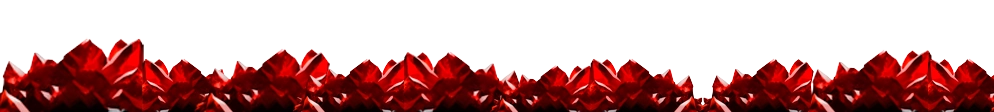
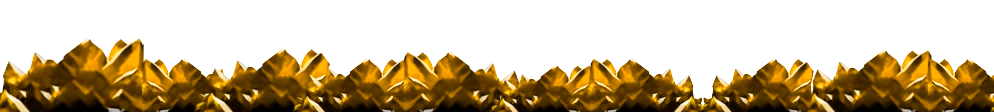
update blue side

diff --git a/js/main.js b/js/main.js
@@ -101,7 +101,13 @@ document.addEventListener("DOMContentLoaded", function () {
 
   // Criação dos elementos
   const divApoio = criarElemento("div", ["apoio-card"]);
+  divApoio.style.padding = "20px";
+  divApoio.style.width = "350px";
+  divApoio.style.background = "var(--col-1)";
   const divApoio2 = criarElemento("div", ["apoio-card"]);
+  divApoio2.style.padding = "20px";
+  divApoio2.style.width = "350px";
+  divApoio2.style.background = "var(--col-1)";
 
   const arroba = criarElemento(
     "a",
@@ -115,18 +121,16 @@ document.addEventListener("DOMContentLoaded", function () {
     "@Nickname",
     "https://twitter.com/"
   );
-
   const arrobaP = criarElemento(
     "p",
     ["col-2", "font1-Pnm4"],
-    "Frontend Developer : Idealizei o projeto com intuito de estudar e de 'brinde' participar da comunidade."
+    "Frontend Developer : Idealizei o projeto com intuito de estudar."
   );
   const arrobaP2 = criarElemento(
     "p",
     ["col-2", "font1-Pnm4"],
-    "Fandom ____ e principal apoiador do DreamTeam. Todas as artes foram feitas pelos seus designers."
+    "Principal apoiador, todas as artes foram feitas pela sua equipe."
   );
-
   const apoioConteudo = document.querySelector(".apoio-conteudo");
 
   // Adição dos elementos à DOM
@@ -144,17 +148,37 @@ function mudar() {
   anguloRotacao = anguloRotacao === 0 ? 180 : 0;
   const imgIcon = document.getElementById("btn-ajuste");
   imgIcon.style.transform = `rotate(${anguloRotacao}deg)`;
-  let bannerMudar = document.querySelector(".main");
-  let logoMain = document.getElementById("logo");
-  let titleDream = document.getElementById("title");
+  const bannerMudar = document.querySelector(".main");
+  const logoMain = document.getElementById("logo");
+  const titleDream = document.getElementById("title");
+  const red1 = document.getElementById("red1");
+  const red2 = document.getElementById("red2");
+  const red3 = document.getElementById("red3");
+  const imgAfter = document.getElementById("game-after");
+  const imgPath = anguloRotacao === 180 ? "2" : "";
 
-  if (anguloRotacao == 180) {
-    bannerMudar.src = "./assets/img/banner-main2.webp";
-    logoMain.src = "./assets/img/logo-main2.webp";
-    titleDream.style.color = "var(--col-8)";
-  } else {
-    bannerMudar.src = "./assets/img/banner-main.webp";
-    logoMain.src = "./assets/img/logo-main.webp";
-    titleDream.style.color = "var(--cor-6)";
-  }
+  atualizarImagem(bannerMudar, `./assets/img/banner-main${imgPath}.webp`);
+  atualizarImagem(logoMain, `./assets/img/logo-main${imgPath}.webp`);
+  atualizarCorTexto(
+    titleDream,
+    anguloRotacao === 180 ? "var(--col-8)" : "var(--col-6)"
+  );
+  atualizarImagem(
+    red1,
+    `./assets/img/info1-${anguloRotacao === 180 ? "blue" : "red"}.webp`
+  );
+  atualizarImagem(
+    red2,
+    `./assets/img/info2-${anguloRotacao === 180 ? "blue" : "red"}.webp`
+  );
+  atualizarImagem(
+    red3,
+    `./assets/img/info3-${anguloRotacao === 180 ? "blue" : "red"}.webp`
+  );
+}
+function atualizarImagem(elemento, caminho) {
+  elemento.src = caminho;
+}
+function atualizarCorTexto(elemento, cor) {
+  elemento.style.color = cor;
 }

diff --git a/index.html b/index.html
@@ -37,11 +37,11 @@
         </div>
         <div class="redes-sociais">
           <ul>
-            <li>
+            <!-- <li>
               <a href="https://github.com/JoaoCube" class="linkBlank">
                 <img src="./assets/img/icon/icon-github.svg" alt="imagem github" width="36px" height="24px">
               </a>
-            </li>
+            </li> -->
             <li>
               <img src="./assets/img/icon/icon-ajuste.svg" alt="imagem ajuste" width="24px" height="24px" onclick="mudar()" id="btn-ajuste">
             </li>
@@ -69,7 +69,7 @@
           <div class="infos">
             <div class="info-card ">
               <picture>
-                <img src="./assets/img/info1.webp" alt="imagem">
+                <img src="./assets/img/info1-red.webp" alt="imagem" id="red1">
               </picture>
               <div class="info-text">
                 <h1 class="col-5 font2-Mnm upc decoracao">THE TEAM</h1>
@@ -79,7 +79,7 @@
             </div>
             <div class="info-card ">
               <picture>
-                <img src="./assets/img/info2.webp" alt="imagem">
+                <img src="./assets/img/info2-red.webp" alt="imagem" id="red2">
               </picture>
               <div class="info-text">
                 <h1 class="col-5 font2-Mnm upc decoracao">THE DREAM</h1>
@@ -89,7 +89,7 @@
             </div>
             <div class="info-card ">
               <picture>
-                <img src="./assets/img/info3.webp" alt="imagem">
+                <img src="./assets/img/info3-red.webp" alt="imagem" id="red3">
               </picture>
               <div class="info-text">
                 <h1 class="col-5 font2-Mnm upc decoracao">THE LEGENDS</h1>
@@ -102,7 +102,7 @@
       </article>
     </section>
 
-    <section class="game-bg">
+    <section class="game-bg" id="game-after">
       <article class="slider-container all-container">
         <div class="slider-conteudo" data-slider>
           <div class="slider-areatitle">

diff --git a/css/home/apoio.css b/css/home/apoio.css
@@ -15,12 +15,9 @@
   overflow: hidden;
 }
 .apoio-conteudo .apoio-card {
-  max-width: 400px;
   height: auto;
-  padding: 20px;
   position: relative;
   overflow: hidden;
-  background-color: var(--col-1);
   clip-path: polygon(
     30% 0%,
     94% 0,
